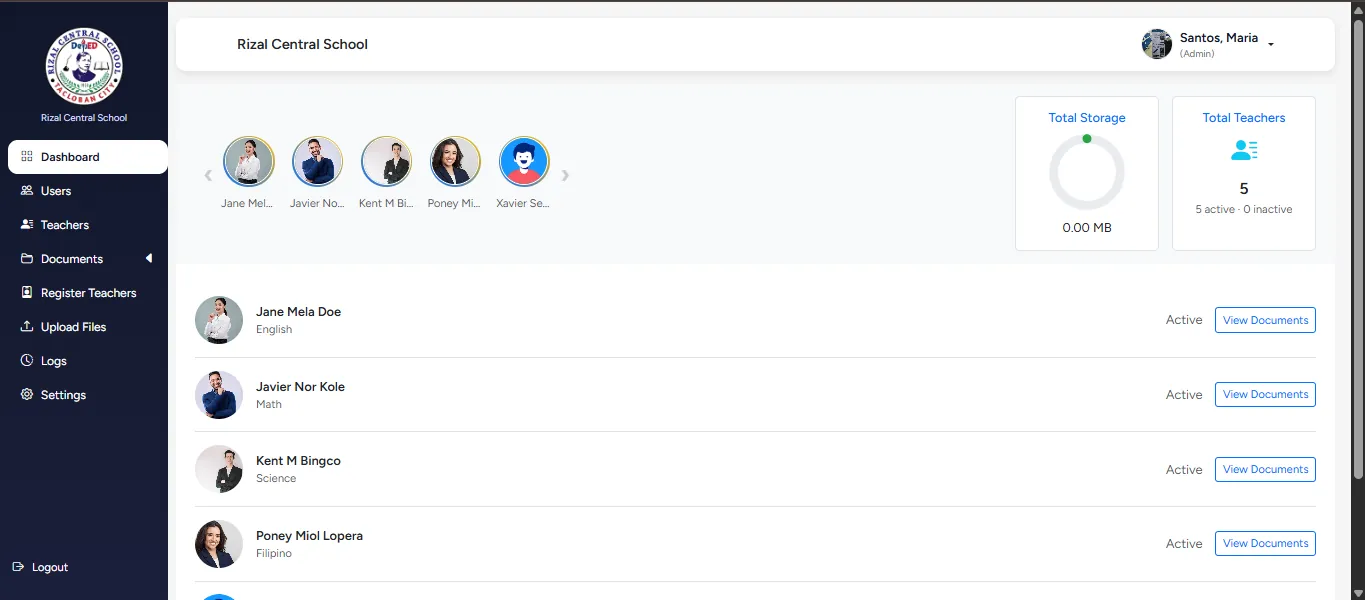
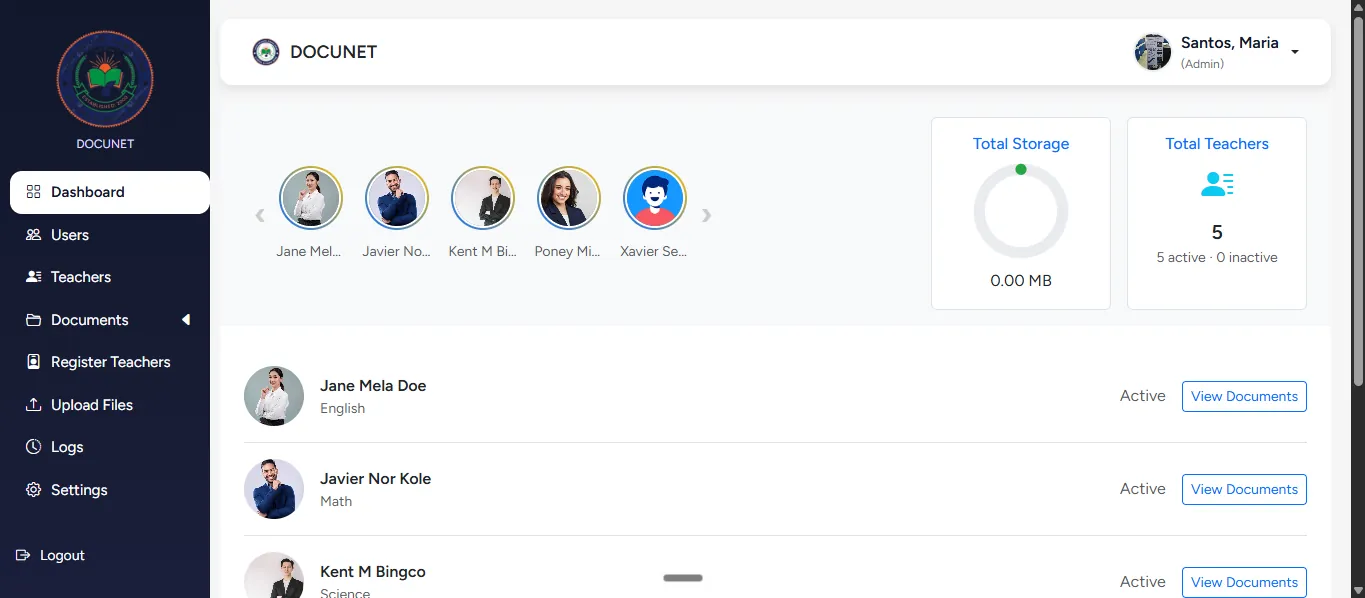
feat: reshot DocuNet screenshots with anonymized branding, swap settings for backup

diff --git a/src/data/projects.js b/src/data/projects.js
@@ -122,9 +122,9 @@ export const projects = [
           'Teacher records — every document AES-encrypted at rest, decrypted on the fly for preview and download only.',
       },
       {
-        src: '/screens/docunet/settings.webp',
-        path: '~/docunet/settings',
-        caption: 'System settings — backup scheduling and role assignment.',
+        src: '/screens/docunet/backup.webp',
+        path: '~/docunet/backup',
+        caption: 'Dual backup — an encrypted archive for restore, plus a decrypted archive for human export.',
       },
     ],
     github: 'https://github.com/Xavier-Seth/DocuNet',
